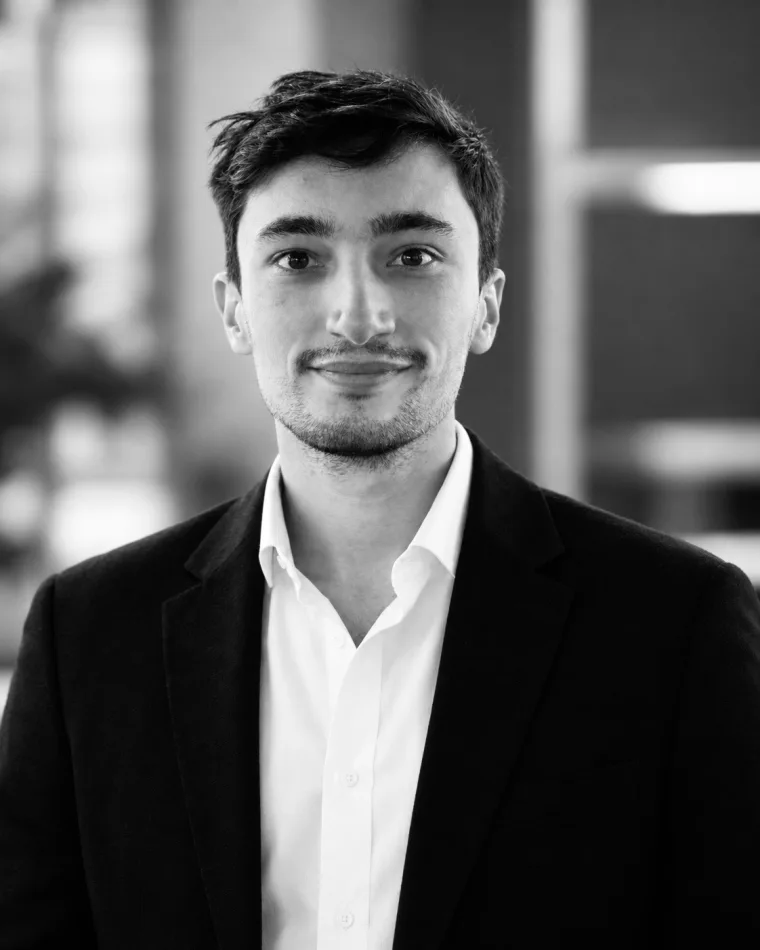
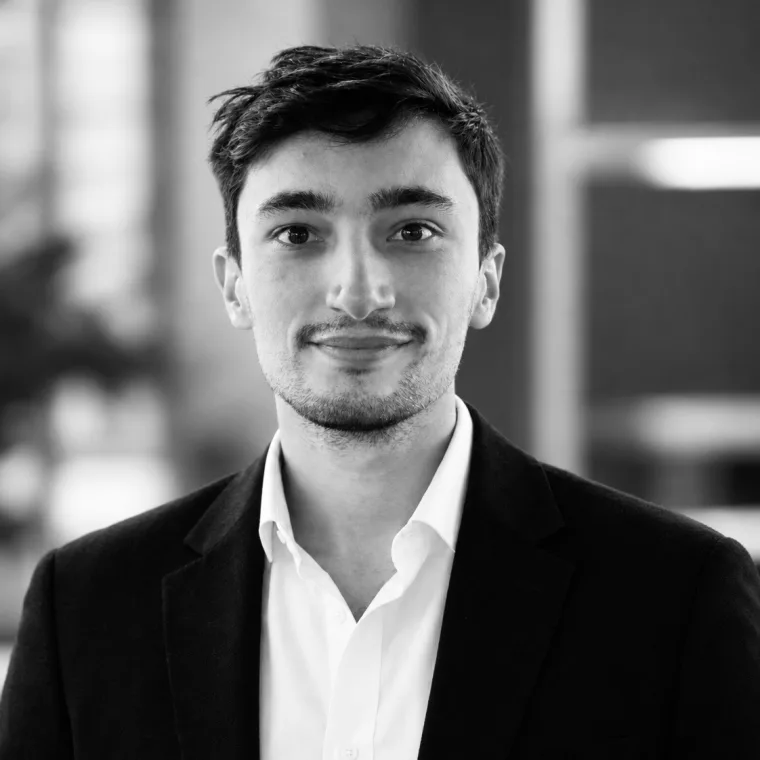
about: replace headshot with new photograph (square 1:1)
Swap the About-page portrait for Mr. Larsen's new photograph. The new image
is square (source 1122x1122); the old one was 4:5 (1122x1402). Rebuilt the
web assets at 760x760 (JPEG + WebP, 2x of the 380px display block) and set
the img width/height to 760x760 so the rendered box keeps the source's true
1:1 ratio with no letterboxing or stretch. Bumped the image URL to ?v=20261013
(the site's cache-version convention) so caches serve the new file. Same
filenames, so no orphaned old asset.

diff --git a/about.html b/about.html
@@ -91,10 +91,10 @@
       <div>
         <figure class="portrait">
           <picture>
-            <source srcset="assets/img/christopher-larsen-headshot.webp" type="image/webp">
-            <img src="assets/img/christopher-larsen-headshot.jpg"
+            <source srcset="assets/img/christopher-larsen-headshot.webp?v=20261013" type="image/webp">
+            <img src="assets/img/christopher-larsen-headshot.jpg?v=20261013"
                  alt="Christopher D. Larsen, CPA, founder of Christopher Larsen CPA, Los Angeles"
-                 width="760" height="950" decoding="async">
+                 width="760" height="760" decoding="async">
           </picture>
         </figure>
         <h2 class="mb22">Christopher D. Larsen, CPA</h2>
